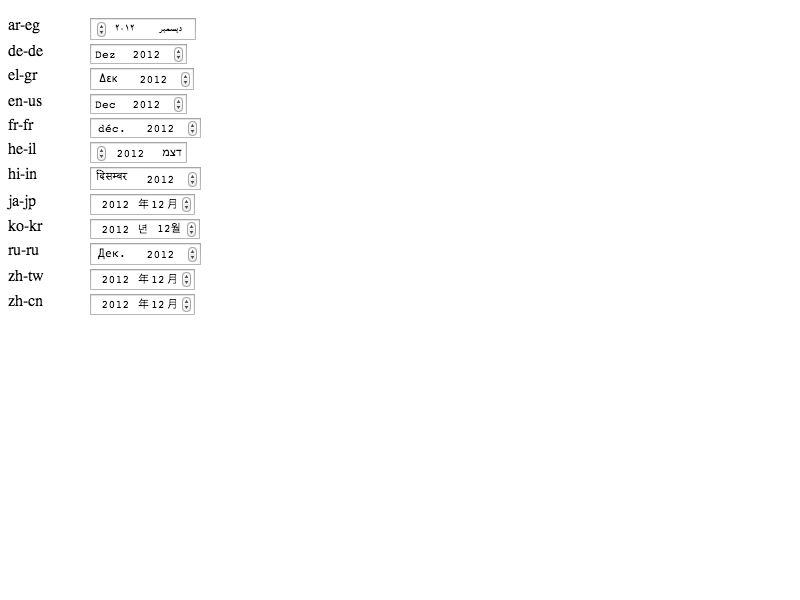
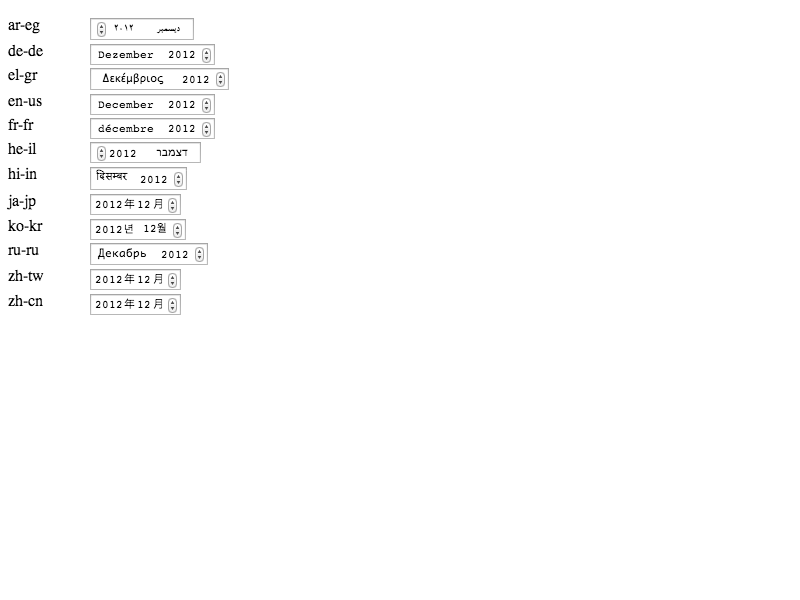
Support full month names in DateTimeEditElement, and use them in input[type=month] by default https://bugs.webkit.org/show_bug.cgi?id=100060
Reviewed by Kentaro Hara.

Source/WebCore:

According to https://plus.google.com/104770450049736549185/posts/4zsoeHoa7SM
no one wants to show abbreviated month names for input[type=month].
This change add support for full month names in DateTimeEditELement, and
LocaleICU and LocaleMac retun month formats with full month names. Note
that LocaleWin::monthFormat returns formats for full month names.

No new tests. Covered by fast/forms/month-multiple-fields/month-multiple-fields-appearance-*.html

* html/shadow/DateTimeEditElement.cpp:
(WebCore::DateTimeEditBuilder::visitField):
If count is 4, use Localizer::monthLabels or standAloneMonthLabels.
* platform/text/LocaleICU.cpp:
(WebCore::LocaleICU::monthFormat):
Returns a format for full month names.
* platform/text/mac/LocaleMac.mm:
(WebCore::LocaleMac::monthFormat): Ditto.

Source/WebKit/chromium:

* tests/LocaleMacTest.cpp:
(TEST_F): Follow LocaleMac::monthFormat change.
* tests/LocalizedDateICUTest.cpp:
(TEST_F): Follow LocaleICU::monthFormat change.

LayoutTests:

Note: Other affected tests are already marked in TestExpectations.

* fast/forms/month-multiple-fields/month-multiple-fields-appearance-l10n.html:
 Add max attributes to show appearance in typical usage.
* platform/chromium-mac/fast/forms/month-multiple-fields/month-multiple-fields-appearance-l10n-expected.png:
Updated.

git-svn-id: https://svn.webkit.org/repository/webkit/trunk@132187 268f45cc-cd09-0410-ab3c-d52691b4dbfc

Changed region(s): [[0.125, 0.03, 0.2812, 0.54]]

diff --git a/LayoutTests/fast/forms/month-multiple-fields/month-multiple-fields-appearance-l10n.html b/LayoutTests/fast/forms/month-multiple-fields/month-multiple-fields-appearance-l10n.html
@@ -18,29 +18,29 @@ dt {
 <body>
 <dl>
 <dt>ar-eg
-<dd><input type="month" value="2012-12" lang="ar-eg">
+<dd><input type="month" value="2012-12" max="9999-12" lang="ar-eg">
 <dt>de-de
-<dd><input type="month" value="2012-12" lang="de-de">
+<dd><input type="month" value="2012-12" max="9999-12" lang="de-de">
 <dt>el-gr
-<dd><input type="month" value="2012-12" lang="el-gr">
+<dd><input type="month" value="2012-12" max="9999-12" lang="el-gr">
 <dt>en-us
-<dd><input type="month" value="2012-12" lang="en-us">
+<dd><input type="month" value="2012-12" max="9999-12" lang="en-us">
 <dt>fr-fr
-<dd><input type="month" value="2012-12" lang="fr-fr">
+<dd><input type="month" value="2012-12" max="9999-12" lang="fr-fr">
 <dt>he-il
-<dd><input type="month" value="2012-12" lang="he-il">
+<dd><input type="month" value="2012-12" max="9999-12" lang="he-il">
 <dt>hi-in
-<dd><input type="month" value="2012-12" lang="hi-in">
+<dd><input type="month" value="2012-12" max="9999-12" lang="hi-in">
 <dt>ja-jp
-<dd><input type="month" value="2012-12" lang="ja-jp">
+<dd><input type="month" value="2012-12" max="9999-12" lang="ja-jp">
 <dt>ko-kr
-<dd><input type="month" value="2012-12" lang="ko-kr">
+<dd><input type="month" value="2012-12" max="9999-12" lang="ko-kr">
 <dt>ru-ru
-<dd><input type="month" value="2012-12" lang="ru-ru">
+<dd><input type="month" value="2012-12" max="9999-12" lang="ru-ru">
 <dt>zh-tw
-<dd><input type="month" value="2012-12" lang="zh-tw">
+<dd><input type="month" value="2012-12" max="9999-12" lang="zh-tw">
 <dt>zh-cn
-<dd><input type="month" value="2012-12" lang="zh-cn">
+<dd><input type="month" value="2012-12" max="9999-12" lang="zh-cn">
 </dl>
 </body>
 </html>

diff --git a/Source/WebCore/html/shadow/DateTimeEditElement.cpp b/Source/WebCore/html/shadow/DateTimeEditElement.cpp
@@ -92,8 +92,9 @@ bool DateTimeEditBuilder::needMillisecondField() const
 
 void DateTimeEditBuilder::visitField(DateTimeFormat::FieldType fieldType, int count)
 {
-    // In LDML, M and MM are numeric, and MMM, MMMM, and MMMMM are symbolic.
-    const int symbolicMonthThreshold = 3;
+    const int countForAbbreviatedMonth = 3;
+    const int countForFullMonth = 4;
+    const int countForNarrowMonth = 5;
     Document* const document = m_editElement.document();
 
     switch (fieldType) {
@@ -126,19 +127,33 @@ void DateTimeEditBuilder::visitField(DateTimeFormat::FieldType fieldType, int co
     }
 
     case DateTimeFormat::FieldTypeMonth:
-        if (count >= symbolicMonthThreshold) {
-            // We always use abbreviations.
+        switch (count) {
+        case countForNarrowMonth: // Fallthrough.
+        case countForAbbreviatedMonth:
             m_editElement.addField(DateTimeSymbolicMonthFieldElement::create(document, m_editElement, m_parameters.localizer.shortMonthLabels()));
-        } else
+            break;
+        case countForFullMonth:
+            m_editElement.addField(DateTimeSymbolicMonthFieldElement::create(document, m_editElement, m_parameters.localizer.monthLabels()));
+            break;
+        default:
             m_editElement.addField(DateTimeMonthFieldElement::create(document, m_editElement, m_parameters.placeholderForMonth));
+            break;
+        }
         return;
 
     case DateTimeFormat::FieldTypeMonthStandAlone:
-        if (count >= symbolicMonthThreshold) {
-            // We always use abbreviations.
+        switch (count) {
+        case countForNarrowMonth: // Fallthrough.
+        case countForAbbreviatedMonth:
             m_editElement.addField(DateTimeSymbolicMonthFieldElement::create(document, m_editElement, m_parameters.localizer.shortStandAloneMonthLabels()));
-        } else
+            break;
+        case countForFullMonth:
+            m_editElement.addField(DateTimeSymbolicMonthFieldElement::create(document, m_editElement, m_parameters.localizer.standAloneMonthLabels()));
+            break;
+        default:
             m_editElement.addField(DateTimeMonthFieldElement::create(document, m_editElement, m_parameters.placeholderForMonth));
+            break;
+        }
         return;
 
     case DateTimeFormat::FieldTypePeriod:

diff --git a/Source/WebCore/platform/text/mac/LocaleMac.mm b/Source/WebCore/platform/text/mac/LocaleMac.mm
@@ -254,9 +254,9 @@ String LocaleMac::monthFormat()
 {
     if (!m_monthFormat.isNull())
         return m_monthFormat;
-    // Gets a format for "MMM", not "MM" because Windows API always provides
-    // formats for "MMM".
-    m_monthFormat = [NSDateFormatter dateFormatFromTemplate:@"yyyyMMM" options:0 locale:m_locale.get()];
+    // Gets a format for "MMMM" because Windows API always provides formats for
+    // "MMMM" in some locales.
+    m_monthFormat = [NSDateFormatter dateFormatFromTemplate:@"yyyyMMMM" options:0 locale:m_locale.get()];
     return m_monthFormat;
 }
 

diff --git a/Source/WebCore/platform/text/LocaleICU.cpp b/Source/WebCore/platform/text/LocaleICU.cpp
@@ -429,9 +429,9 @@ String LocaleICU::monthFormat()
 {
     if (!m_monthFormat.isNull())
         return m_monthFormat;
-    // Gets a format for "MMM", not "MM" because Windows API always provides
-    // formats for "MMM".
-    m_monthFormat = getFormatForSkeleton(m_locale.data(), ASCIILiteral("yyyyMMM"));
+    // Gets a format for "MMMM" because Windows API always provides formats for
+    // "MMMM" in some locales.
+    m_monthFormat = getFormatForSkeleton(m_locale.data(), ASCIILiteral("yyyyMMMM"));
     return m_monthFormat;
 }
 

diff --git a/Source/WebKit/chromium/tests/LocalizedDateICUTest.cpp b/Source/WebKit/chromium/tests/LocalizedDateICUTest.cpp
@@ -152,8 +152,8 @@ TEST_F(LocalizedDateICUTest, isRTL)
 
 TEST_F(LocalizedDateICUTest, monthFormat)
 {
-    EXPECT_STREQ("MMM yyyy", monthFormat("en_US").utf8().data());
-    EXPECT_STREQ("MMM yyyy", monthFormat("fr").utf8().data());
+    EXPECT_STREQ("MMMM yyyy", monthFormat("en_US").utf8().data());
+    EXPECT_STREQ("MMMM yyyy", monthFormat("fr").utf8().data());
     EXPECT_STREQ("yyyy\xE5\xB9\xB4M\xE6\x9C\x88", monthFormat("ja").utf8().data());
 }
 

diff --git a/Source/WebKit/chromium/tests/LocaleMacTest.cpp b/Source/WebKit/chromium/tests/LocaleMacTest.cpp
@@ -262,7 +262,7 @@ TEST_F(LocaleMacTest, isRTL)
 #if ENABLE(INPUT_MULTIPLE_FIELDS_UI)
 TEST_F(LocaleMacTest, monthFormat)
 {
-    EXPECT_STREQ("MMM yyyy", monthFormat("en_US").utf8().data());
+    EXPECT_STREQ("MMMM yyyy", monthFormat("en_US").utf8().data());
     EXPECT_STREQ("yyyy\xE5\xB9\xB4M\xE6\x9C\x88", monthFormat("ja_JP").utf8().data());
 
     // fr_FR and ru return different results on OS versions.
